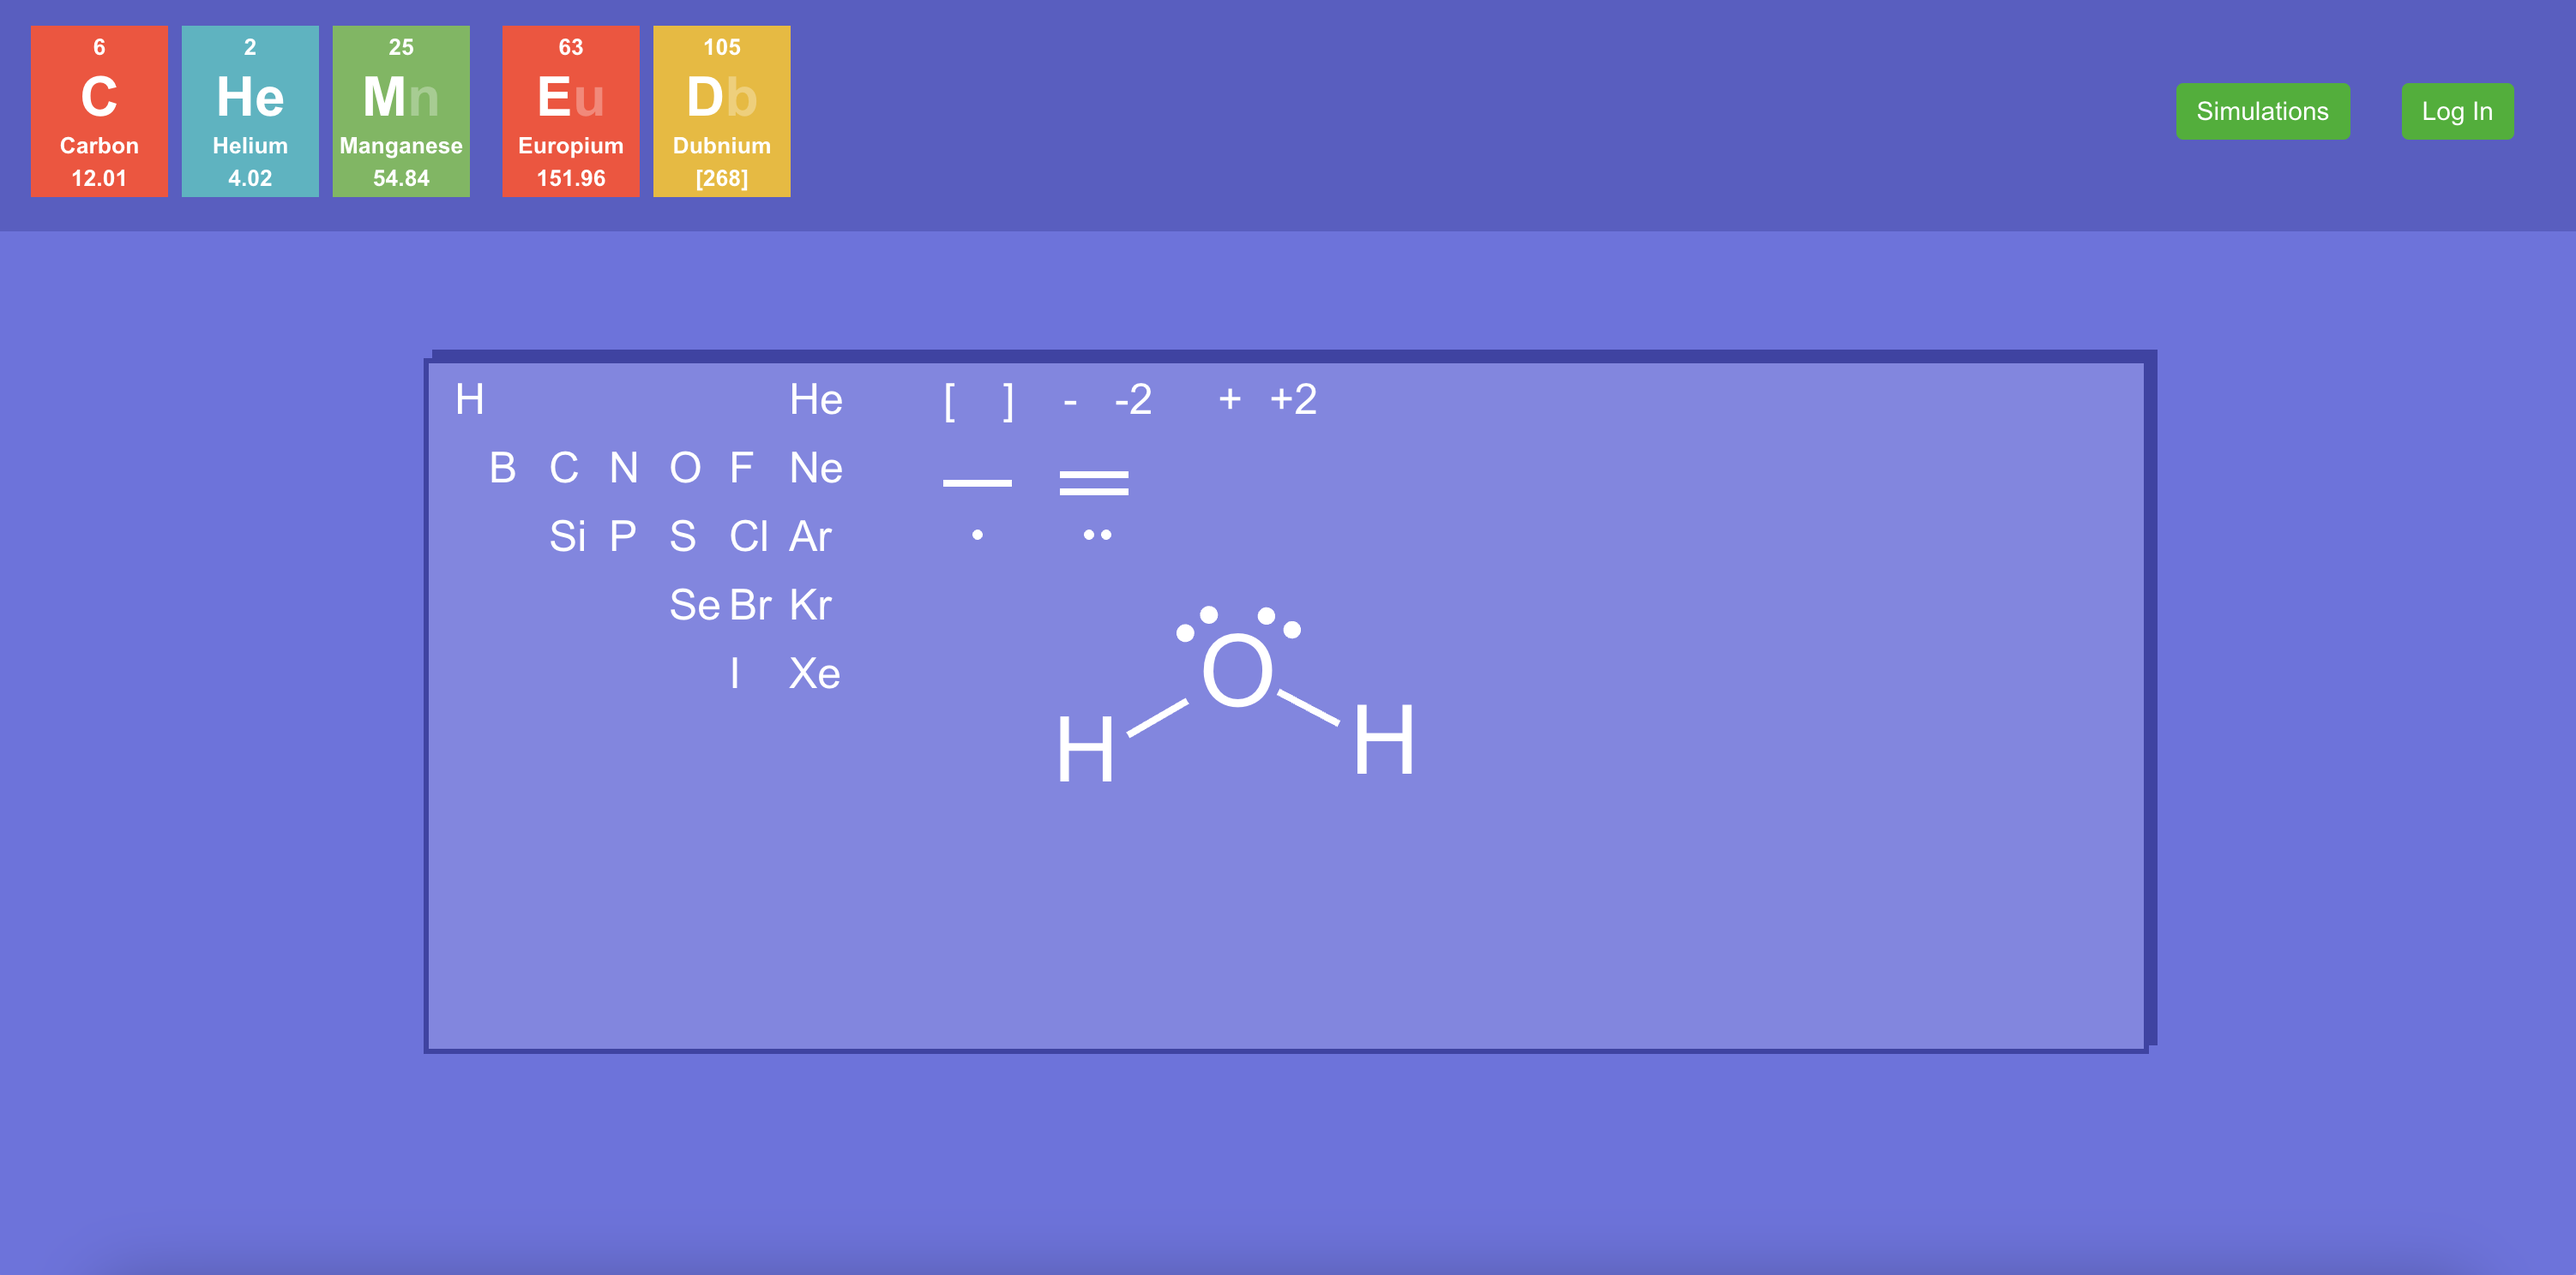
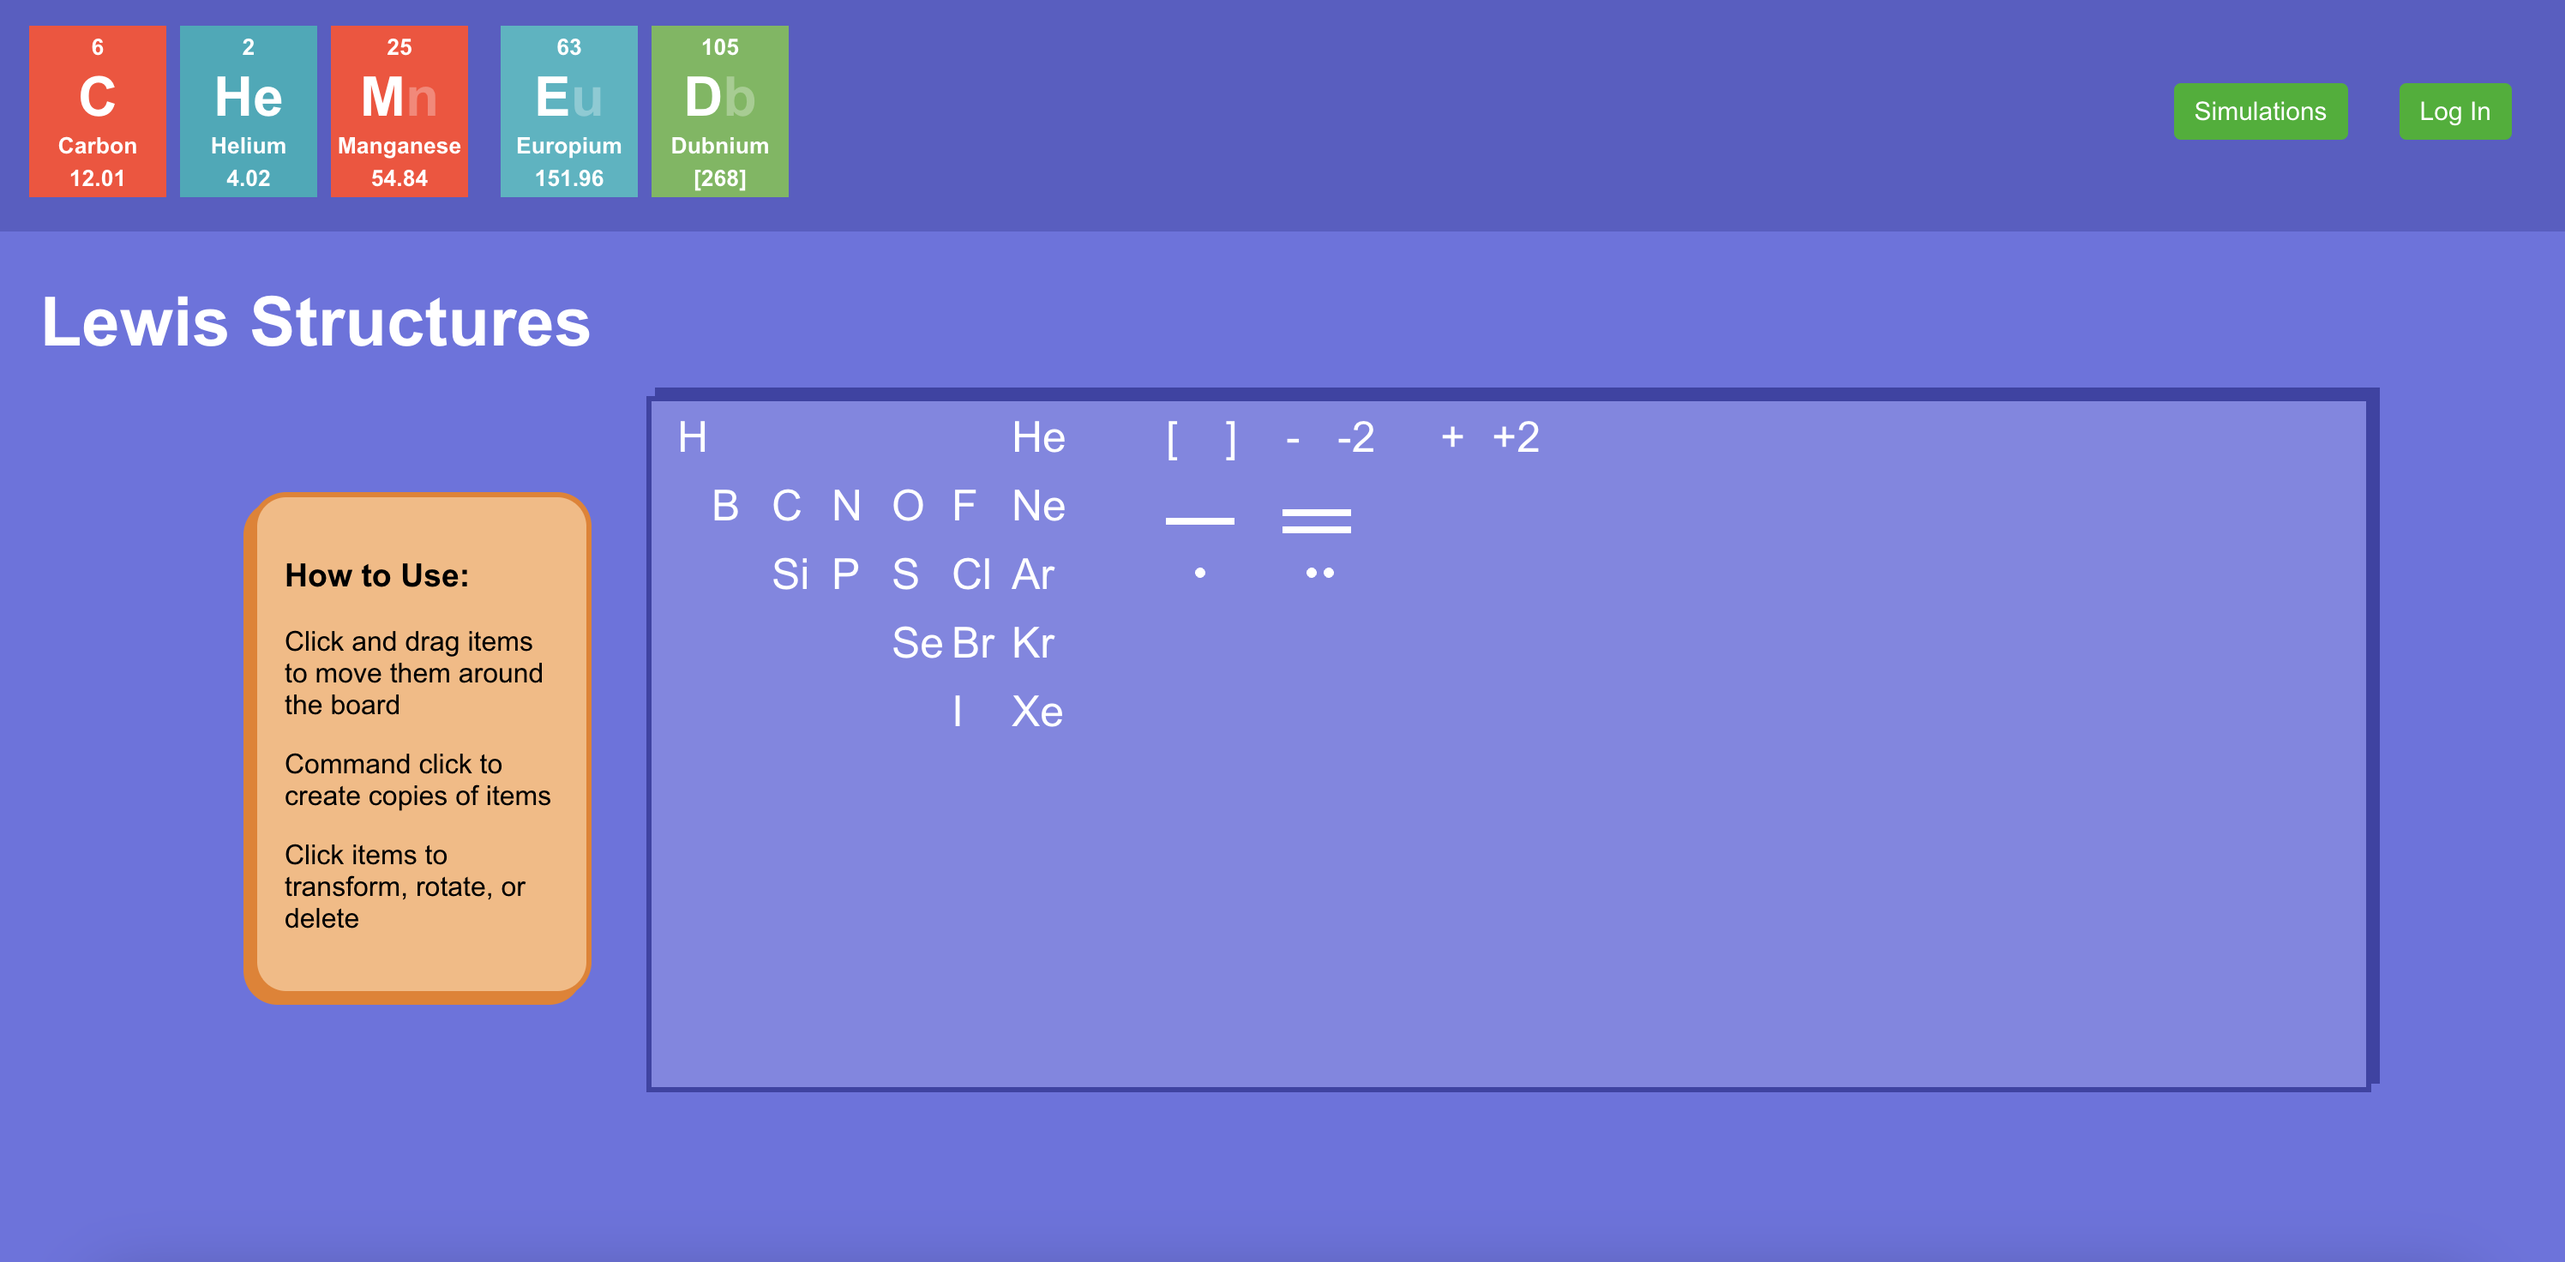
complete instructiuons on LS page

diff --git a/src/components/Simulations/LewisStructure/LewisStructure.js b/src/components/Simulations/LewisStructure/LewisStructure.js
@@ -121,7 +121,14 @@ const LewisStructure = () => {
 
   return (
     <div className='simulation-page'>
+        <h1>Lewis Structures</h1>
       <div className='simulation-container'>
+        <div className='LS-element-container'>
+          <h3>How to Use: </h3>
+          <p>Click and drag items to move them around the board </p>
+          <p>Command click to create copies of items </p>
+          <p>Click items to transform, rotate, or delete </p>
+        </div>
         <div className='LS-container'>
           <Stage width={1000} height={400} onClick={handleStageClick}>
             <Layer>

diff --git a/src/components/Simulations/LewisStructure/LewisStructure.css b/src/components/Simulations/LewisStructure/LewisStructure.css
@@ -2,7 +2,6 @@
   position: relative;
   width: 1000px;
   height: 400px;
-  margin-top: 4em;
   background-color: #8186e4;
   border: solid 3px #3e43a7;
   box-shadow: 5px -5px 0px #3e43a7;
@@ -15,16 +14,19 @@
   color: white;
 } */
 
-/* .LS-element-container {
+.LS-element-container {
   position: relative;
-  width: 4em;
-  height: 25em;
+  width: 10em;
+  height: 16em;
   margin: 2em;
+  padding: 1em;
+  color: black;
   background-color: #fab87e;
   box-shadow: -5px 5px 0px #ec7d1c;
   border: solid 3px #ec7d1c;
   border-radius: 20px;
-} */
+} 
+
 
 .LS-element {
   margin: 1em;
